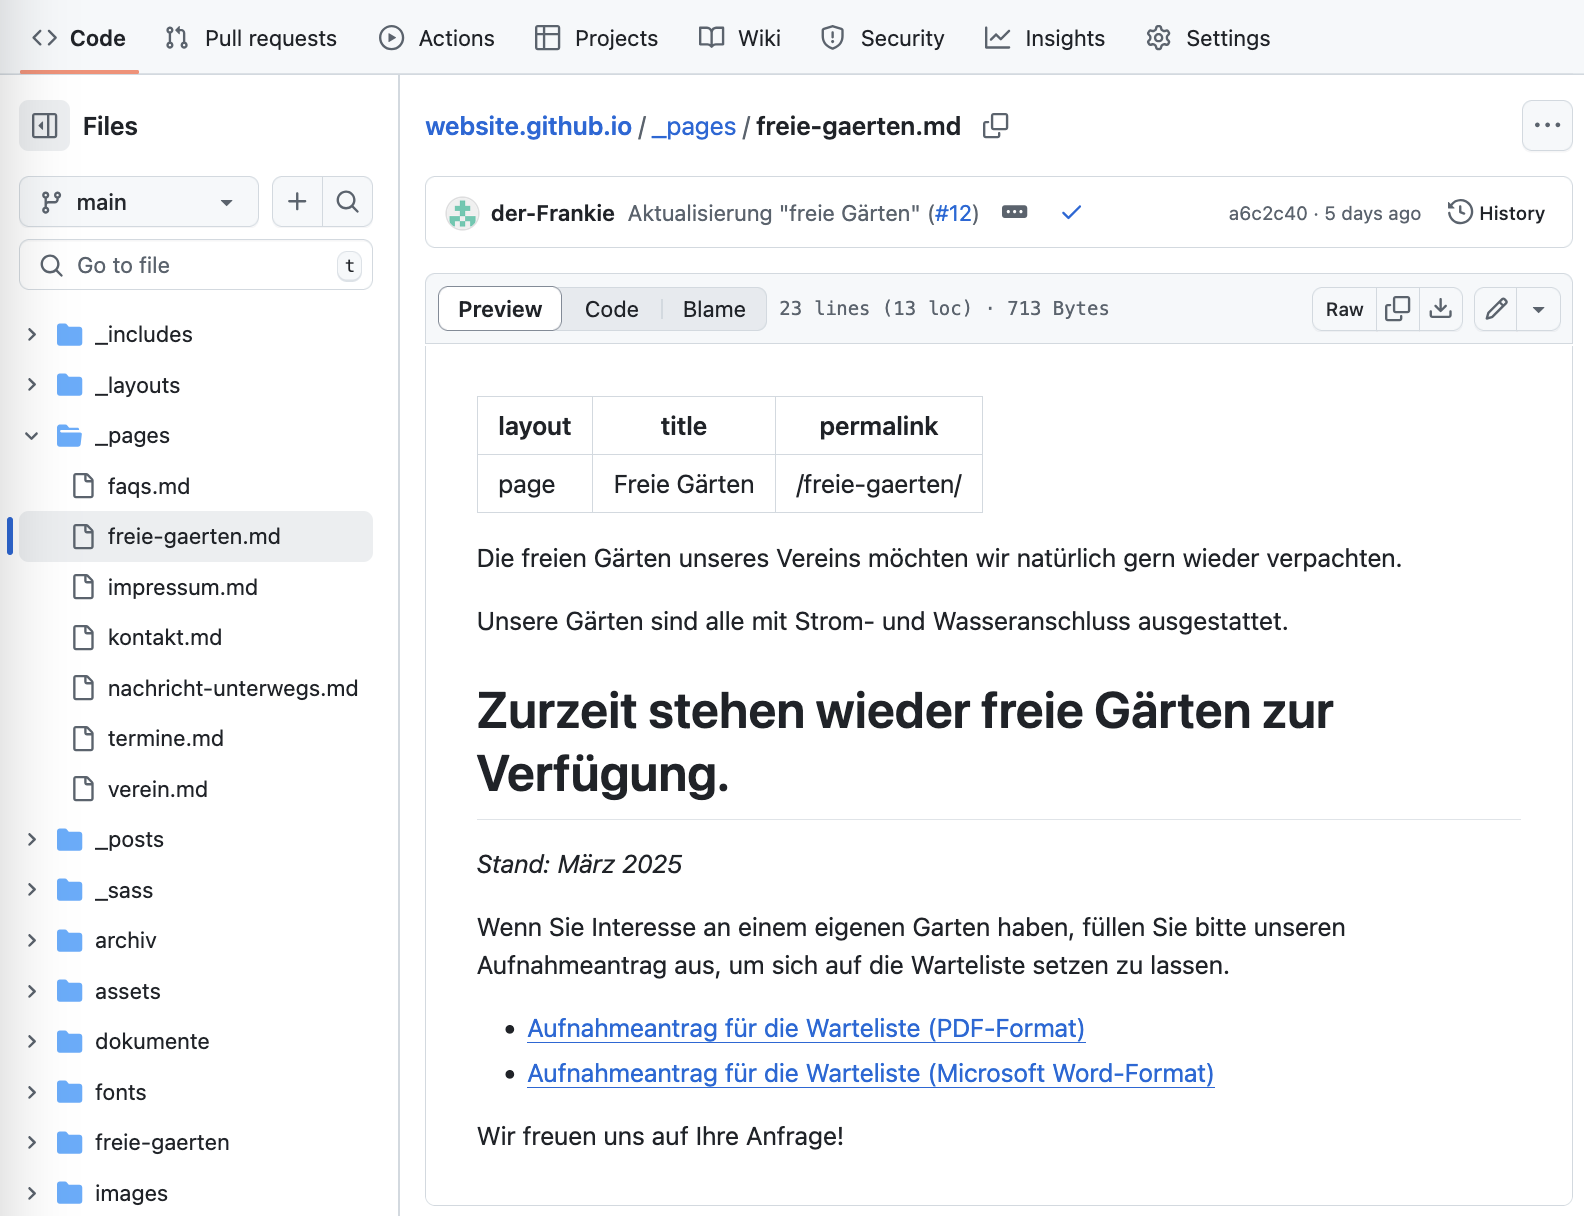
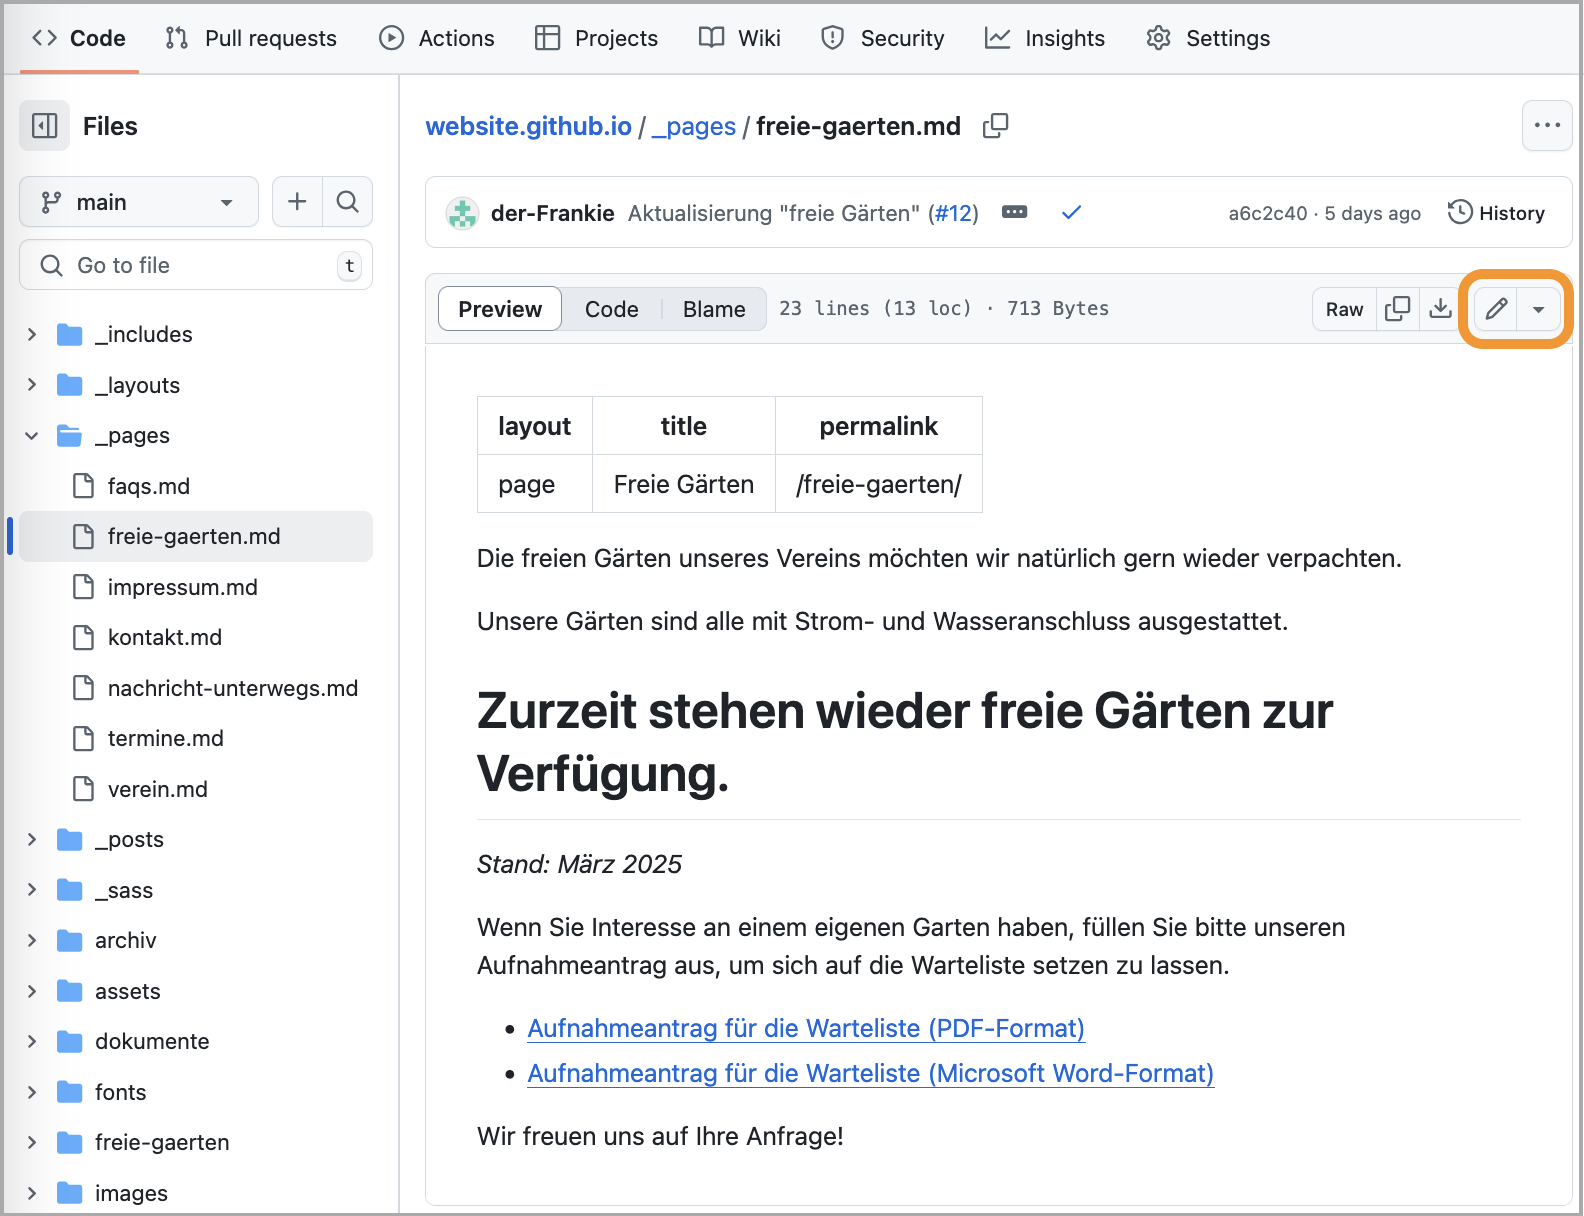
upload re-init howto-files

Changed region(s): [[0.0, 0.0, 1.0, 1.0], [0.0, 0.9688, 0.0309, 1.0]]

diff --git a/Website-Gebrauchsanweisung.md b/Website-Gebrauchsanweisung.md
@@ -7,7 +7,7 @@ Dieses Dokument umfasst eine Beschreibung der Website des KGV Waldfrieden e.V. I
 
 - - - - - - - - - - - - - - - - - - - - - - - - - - - - - -
 
-# Überblick
+## Technologie-Überblick
 
 Bei diesem Projekt handelt es sich um eine statische Website, d.h. alle Inhalte und Elemente der Website lieben auf einem Webserver vor und werden nicht erst beim Aufruf erzeugt.
 
@@ -19,6 +19,7 @@ Technisch basiert die Website auf [GitHub Pages](https://pages.github.com/) und 
 
 GitHub Pages ([Wikipedia-Link](https://de.wikipedia.org/wiki/GitHub#GitHub_Pages)) bietet die Möglichkeit, statische (Website-)Inhalte im Internet zur Verfügung zu stellen ([Wikipedia-Link](https://de.wikipedia.org/wiki/Webhosting)) und ergänzt damit die Werkzeugkiste für unseren Anwendungsfall hervorragend.
 
+
 - - - - - - - - - - - - - - - - - - - - - - - - - - - - - -
 
 ## Strukturen der Website
@@ -29,7 +30,7 @@ Auf die Website gibt es zwei strukturell unterschiedliche Sichtweisen.
 
 Die Website basiert auf einem veränderlichen Layout ("responsive design"), das sich an die Fenstergröße bzw. das verwendete Bildschirmgerät dynamisch anpasst.
 
- ![[/pictures/website_landing_page.png]]
+ ![website_landing-page](pictures/website_landing_page.png)
 
 Auf der Startseite (der sog. '_Landing page_') werden die jüngsten drei Posting-Auszüge angezeigt (das jeweils vollständige Posting ist durch Klick auf '_WEITERLESEN_' erreichbar) und die übrigen Posting-Sites sind über die sogenannte '_Pagination_' (zu dt. "Seitenzählung") verlinkt.
 
@@ -73,58 +74,51 @@ Der hierarchische Aufbau und den entsprechenden Inhalten im Überblick:
 
 ### 2. Die Projektseite auf GitHub
 
-Der Verein hat einen eigenen Account auf GitHub: 
-- KGV-Waldfrieden ([Link](https://github.com/KGV-Waldfrieden))
+Es gibt einen GitHub-Account '**KGV Waldfrieden**' und auf der entsprechenden GitHub-Seite ([[https://github.com/KGV-Waldfrieden]]) diese zwei Repositories:
 
-Das folgende Repository enthält die Daten der Website:
-- website.github.io ([Link](https://github.com/KGV-Waldfrieden/website.github.io))
+1. Das Repository '**website.github.io**' enthält die Verzeichnisse und Dateien für die Website. Die Bezeichnung des Repository ist auf die Namenskonventionen für '_GitHub Pages_' zurückzuführen.
+	![repository-title](pictures/repository-Title.png)
+	-> [[https://github.com/KGV-Waldfrieden/website.github.io]]
 
-![[repository-Title.png]]
-
-Ein weiteres Repository enthält diese Dokumentation:
-- howto-website ([Link](https://github.com/KGV-Waldfrieden/howto-website))
+2. Ein weiteres Repository '**howto-website**' enthält die vorliegende Dokumentation.
+   -> [[https://github.com/KGV-Waldfrieden/howto-website]]
 
 #### Repository-Site
 
-Im oberen Bereich der Seite befindet sich eine Menüleiste.
+Für die Bearbeitung ist primär nur die Seite mit der '_Code_'-View relevant.
 
-![[repository-Menu.png]]
-
-Für die Bearbeitung ist primär nur die Seite mit der '_Code_'-View  relevant.
-
-![[GitHub-Repository_1.png]]
-![[GitHub-Repository_2.png]]
-
-#### Verzeichnisbaum
+![repository-View_Code_1](pictures/repository-View_Code_1.png)
+![repository-View_Code_2](pictures/repository-View_Code_2.png)
+##### Verzeichnisbaum
 
 Die Inhalte KGV-Website basieren auf den Inhalten der Verzeichnisse und Dateien, die in diesem Verzeichnisbaums organisiert sind. Die folgenden Abschnitte bieten eine kurze Beschreibung der hier primär relevanten Inhalte.
 
-##### Pages
-![[ordner_pages.png]]
+##### Pages-Verzeichnis
+![pages-verzeichnis](pictures/verzeichnis_pages.png)
 Die Pages sind die Inhaltsseiten der Website und sind (bis auf eine Ausnahme) direkt von der Startseite (_Landing page_) über die Menü-Leiste oder den Impressum-Link im Footer erreichbar.
 
-##### Posts / Postings
-![[ordner_posts.png]]
+##### Posts- / Postings-Verzeichnis
+![verzeichnis_posts](pictures/verzeichnis_posts.png)
 Postings sind einzelne News oder auch Informationen, bei denen Aktualität und kurzfristige Relevanz im Vordergrund steht. Aktuell haben wir die jeweils drei aktuellsten (die jüngsten bis einschließlich heute) auf der Startseite direkt als Auszug eingebunden und verlinkt.
 
 Es können auch bereits zukünftige Postings erstellt werden - diese werden aber erst mit Erreichen des entsprechenden Datums auf der Startseite angezeigt.
 
-##### Bilder
-![[ordner_images.png]]
+##### Bilder-Verzeichnis
+![verzeichnis-images](pictures/verzeichnis_images.png)
 In diesem Ordner sind alle Bilder, Fotos oder auch Grafiken (i.d.R. mit den Dateiendungen 'jpg', 'gif' oder 'png') abgelegt, die irgendwo auf der Website eingebunden werden. Um diese *Images* einzubinden, müssen diese selbstverständlich via **commit** Teil des _Repositories_ werden.
 
-##### Dokumente
-![[ordner_dokumente.png]]
+##### Dokument-Verzeichnis
+![verzeichnis-dokumente](pictures/verzeichnis_dokumente.png)
 Da auf der Website verschiedene Dokumente in verschiedenen Formaten (PDF, Word: doc/docx), aber auch als Bilddatei zur Verfügung stellen, gibt es dafür einen zentralen Ablageort. Auch für die Dokumente gilt: Um die einzubinden, d.h. auf der Website zu verlinken und auch anzuzeigen, müssen diese mittels **commit** Teil des _Repositories_ werden.
 
-##### index.html
-![[datei_index.html.png]]
+##### Die Datei 'index.html'
+![datei-index.html](pictures/datei_index.html.png)
 Diese Datei ist per Konvention im WWW die Startseite einer Website - und so ist es auch hier. Im Gegensatz zu den ansonsten zu bearbeitenden Dateien liegt diese im HTML-Format ([Wikipedia-Link](https://de.wikipedia.org/wiki/Hypertext_Markup_Language)) vor. Wie auch das Markdown-Format ist es zwar Text-basiert, enthält aber erheblich mehr *Auszeichnungen*, die die Struktur und Gestaltung der Seite betreffen und das Lesen erschweren. Beim Blick in die Datei finden sich sämtliche Inhalte, die auf der Startseite der Website zu sehen sind, wieder.
-
 
 ##### Weitere Dateien und Verzeichnisse
 
 Die übrigen Verzeichnisse und Dateien sind selbstverständlich für die Website auch relevant, weil dort Konfigurationen und beispielsweise Schriften o.ä. enthalten sind. Aber in der Regel sind dort keine Änderungen notwendig - und definitiv auch nur angeraten, wenn man weiß, was man da tut.
+
 
 - - - - - - - - - - - - - - - - - - - - - - - - - - - - - -
 
@@ -139,35 +133,31 @@ Die Bearbeitung der Website folgt einem immer gleichen Schema.
 | Workflow. | Automatisierte Verarbeitung.                |
 | Publish.  | Veröffentlichung (als GitHub-Page).         |
 
-## Bearbeitung
+## Der Bearbeitungs-Prozess
 
 Die initiale Sicht auf das Repository zeigt die '_Code_'-Ansicht mit dem bereits angesprochenen Verzeichnisbaum.
 
 Ein Klick auf ein Verzeichnis innerhalb des Verzeichnisbaums öffnet das Verzeichnis (ähnlich wie z.B. ein Datei-Manager in Windows) und zeigt die folgende Ansicht:
 
-![[klick_verzeichnis-ansicht.png]]
+![klick-verzeichnis-ansicht](pictures/klick_verzeichnis-ansicht.png)
 
-Nun geht wird es bezüglich der Bearbeitung konkreter: Ein Klick auf die Datei 'freie-gaerten.md' im gerade geöffneten Verzeichnis öffnet diese Datei.
+Nun wird es bezüglich der Bearbeitung konkreter: Ein Klick auf die Datei '**freie-gaerten.md**' im gerade geöffneten Verzeichnis öffnet diese Datei.
 
-![[klick_datei_ansicht.png]]
+![klick-datei-ansicht](pictures/klick_datei_ansicht.png)
 
-Die Datei wird in der '_Preview_'-Ansicht angezeigt. Diese Ansicht ähnelt stark dem, was auch auf der Website im Internet zu sehen ist. Ein weiterer Klick auf des Stift-Symbol auf der rechten Seite öffnet die '_Edit_'-Ansicht.
+Die Datei wird in der '_Preview_'-Ansicht angezeigt. Diese Ansicht ähnelt stark dem, was auch auf der Website im Internet zu sehen ist. Ein Klick auf des Stift-Symbol (orange Markierung oben rechts auf der Abbildung) öffnet die '_Edit_'-Ansicht.
 
-![[klick_datei_bearbeitung.png]]
+![klick-datei-bearbeitung](pictures/klick_datei_bearbeitung.png)
 
 Jetzt sind wir im '_Edit_'-Modus. Hier sehen wir jetzt die Text-Inhalte unserer ausgewählten Seite "Freie Gärten" mit den Markdown-Formatierungen.
 
 Hier können nun Änderungen oder Ergänzungen durchgeführt werden. Die Auswirkung dieser Änderungen können gefahrlos im '_Preview_'-Modus gesichtet werden.
 
-![[schalter_edit_und_preview.png]]
+![schalter-edit-und-preview](pictures/schalter_edit_und_preview.png)
 
 Ein Wechsel ist mit dem entsprechenden Schalter problemlos möglich.
 
-[...]
-# TODO: Beschreibung COMMIT.
-
-
-### Markdown
+### Exkurs: Markdown
 
 Alle Texte auf der Website sind mittels _Markdown_ formatiert. Das bietet den großen Vorteil, dass der Text selbst lesbar bleibt und daraus über einen (in einem späteren Abschnitt beschriebenen) automatisierten Workflow die komplett formatierte Website generiert und veröffentlich werden kann.
 
@@ -180,11 +170,20 @@ Alle Texte auf der Website sind mittels _Markdown_ formatiert. Das bietet den gr
 # TODO:  Einbindung beschreiben!
 
 
-### Workflow
+
+## Der 'commit'-Prozess
+
+[...]
+# TODO: Beschreibung COMMIT.
+
+
+## Der Workflow-Prozess
 
 Der Workflow zur Erzeugung der Website ist automatisiert, d.h. die Änderungen brauchen nur (in GitHub) mittels '_commit_' in das Repository übergeben zu werden (vom Verständnis her ähnlich wie das 'speichern' unter Windows). Im Hintergrund wird dann automatisch der sogenannte '_Build_'-Prozess gestartet, der aus den vorhandenen Text-basierten Inhalten im Verzeichnisbaum die Website neu erzeugt.
 
-In der Regel läuft ein solcher Prozess ohne Probleme durch und die Website wird auch gleich veröffentlicht. Das Ergebnis ist dann unter der bekannten [URL](https://www.kgv-waldfrieden-hannover.de) (Adresse der Homepage im Internet) angeschaut werden. Kommt es während des '_Build_'-Prozesses zu Fehlern, findet keine Veröffentlichung statt. Damit wird gewährleistet, das es nicht zu einer "kaputten Website" kommt. Hinweise bzgl. der Kontrolle und Fehler-Recherche werden im Anhang beschrieben Anhang.
+In der Regel läuft ein solcher Prozess ohne Probleme durch und die Website wird auch gleich veröffentlicht. Das Ergebnis kann dann unter der bekannten Adresse der Homepage im Internet ([[https://www.kgv-waldfrieden-hannover.de]]) angeschaut werden.
+
+Kommt es während des '_Build_'-Prozesses zu Fehlern, findet keine Veröffentlichung statt. Damit ist gewährleistet, dass es durch kleinere Fehler nicht zu einer "kaputten Website" kommen kann. Hinweise bzgl. der Kontrolle und Fehler-Recherche werden im Anhang weiter beschrieben.
 
 - - - - - - - - - - - - - - - - - - - - - - - - - - - - - -
 
@@ -192,30 +191,30 @@ In der Regel läuft ein solcher Prozess ohne Probleme durch und die Website wird
 
 ## Kontrolle des Build-Prozesses
 
-Falls erforderlich gibt es eine Möglichkeit, Details über den _Build_-Prozess (den sog. '_Workflow_') angezeigt zu bekommen.
+Falls erforderlich gibt es eine Möglichkeit, Details über den _Build_-Prozess (den sog. automatisierten '_Workflow_') angezeigt zu bekommen.
 
-![[repository-Menu_Actions.png]]
+![repository-menu-actions](pictures/repository-Menu_Actions.png)
 
 Im Menü auf der Repository-Site gibt den Punkt _Actions_ und ein Klick darauf führt auf die Übersichts-Site '__Actions - All workflows__'.
 
-![[Repository-View_Actions.png]]
+![repository-view-actions](pictures/repository-View_Actions.png)
 
 Die Übersicht im rechten unteren Bereich listet die jeweils letzten _Build_-Prozess (mit Status, Startzeitpunkt, Dauer usw.) auf. In der obigen Abbildung sind die (sichtbaren) letzten beiden Build-Prozesse mit dem Status '_completed_' geendet - und so sollte es in aller Regel auch sein.
 
-![[workflow_status_in-progress.png]]
+![workflow-status-in-progress](pictures/workflow_status_in-progress.png)
 Ein Prozess, der aktuell noch andauert, hat den Status '_in progress_' und ist mit einem gelben Kreisel-ähnlichen Symbol gekennzeichnet.
 
 ## Vorgehen im Fehlerfall
 
 ### Recherche
 
-![[workflow_status_failure.png]]
+![workflow-status-failure](pictures/workflow_status_failure.png)
 Wird ein Prozess-Lauf mit Fehlern beendet (Status '_failure_'), wird dieser mit einem roten Kreis markiert.
 
 In einem solchen Fall kann ein Blick in die Einzelheiten des Prozesses weiterhelfen.
 Ein Klick auf '_pages build and deployment_' führt auf die _Summary_ (Zusammenfassung) des Vorgangs.
 
-![[workflow_summary_failure.png]]
+![workflow-summary-failure](pictures/workflow_summary_failure.png)
 
 Die dort angezeigten _Annotations_ (Ausgaben) erfordern allerdings bereits ein tieferes Verständnis des _Build_-Prozesses und sind hier nur zur Information aufgezeigt.
 
